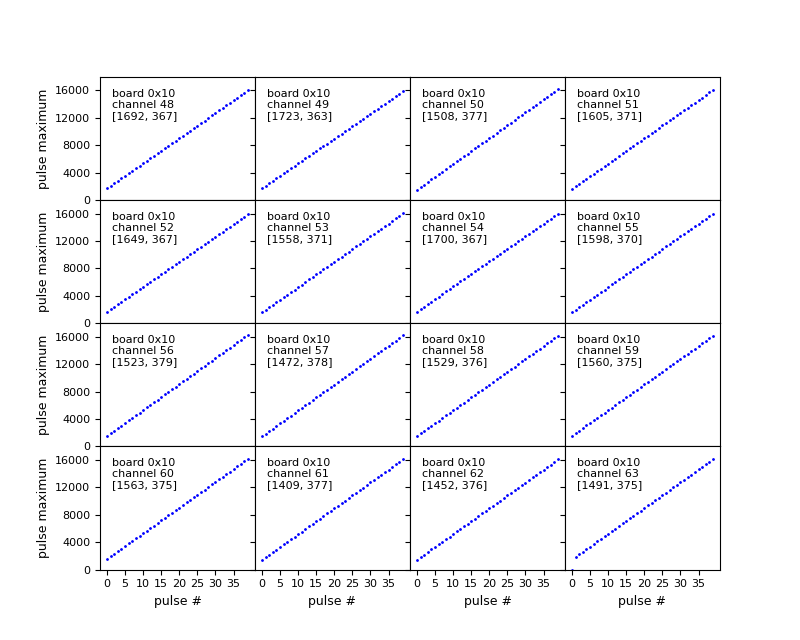
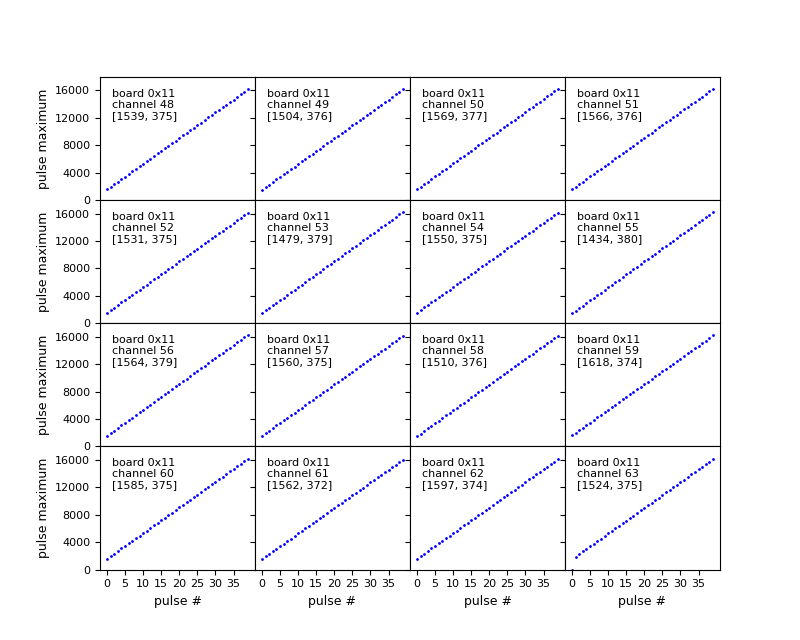
Fix board 11

diff --git a/html/Boards0x0x49/Board_11.html b/html/Boards0x0x49/Board_11.html
@@ -1,0 +1,35 @@
+<html> 
+ <head> 
+ <style> 
+ #img_size_token 
+ { 
+ width:400px; 
+ height:400px; 
+ } 
+ #img_size_sing 
+ { 
+ width:400px; 
+ height:400px; 
+ } 
+ </style> 
+ </head> 
+ <body style='background-color:\#f5eace' > 
+ <h1> Logbook for Board 0x11 </h1>  
+ <a href="../../index.html"> Home </a>  
+ <a href="./index.html"> <- Back </a>  
+ <h2> Location: Boulder, CO </h2>  
+ <p> Pedestal Test on Channels 0 to 15 on 20210715 
+ <p> Pedestal Test on Channels 16 to 31 on 20210715 
+ <p> Pedestal Test on Channels 32 to 47 on 20210715 
+ <p> Pedestal Test on Channels 48 to 63 on 20210719 
+ <hr width="75%">  
+ <img src="plots/11_Linearity_0.png" alt="plots/11_Linearity_0.png" id="img_size_sing">
+ <hr width="75%"> 
+ <img src="plots/11_Linearity_1.png" alt="plots/11_Linearity_1.png" id="img_size_sing">
+ <hr width="75%"> 
+ <img src="plots/11_Linearity_2.png" alt="plots/11_Linearity_2.png" id="img_size_sing">
+ <hr width="75%"> 
+ <img src="plots/11_Linearity_3.png" alt="plots/11_Linearity_3.png" id="img_size_sing">
+ <hr width="75%"> 
+ </body> 
+ </html>
